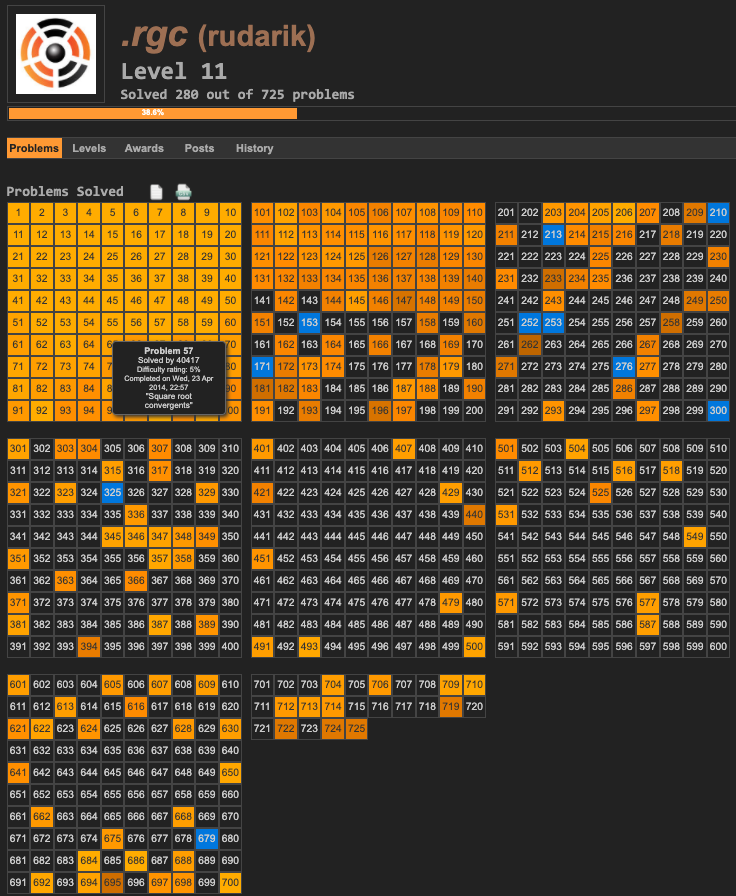
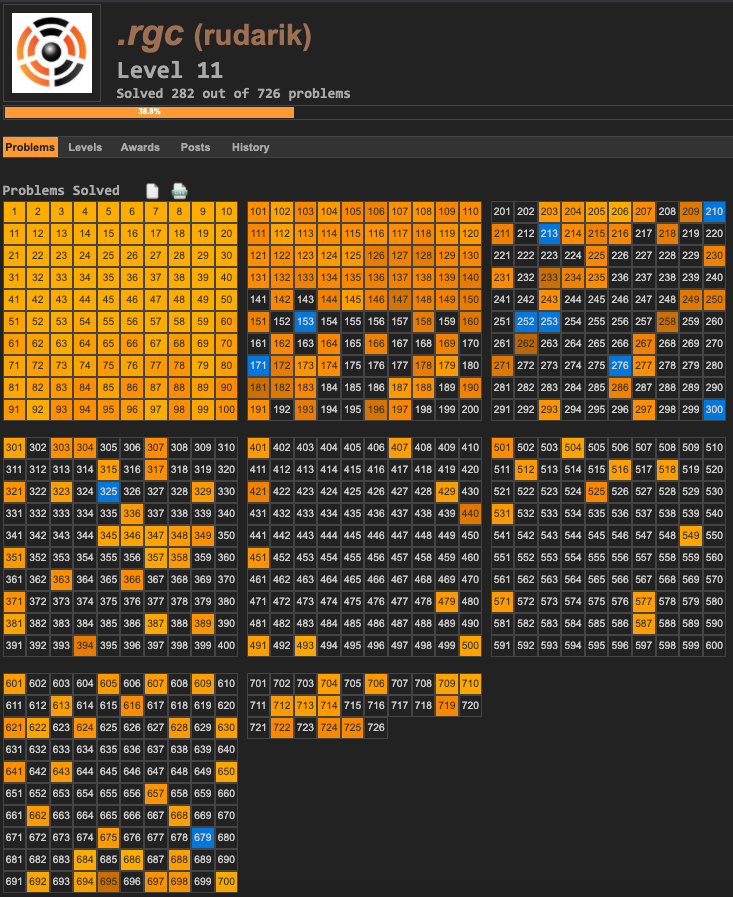
Solved 643 and 657

diff --git a/README.md b/README.md
@@ -82,6 +82,7 @@ Problem 102: "Triangle containment"
 Problem 345: "Matrix sum"
 
 * [Inclusion-exclusion Principle](https://en.wikipedia.org/wiki/Inclusion%E2%80%93exclusion_principle)
+Problem 657: "Incomplete words"
 
 * [Incomplete gamma function](https://en.wikipedia.org/wiki/Incomplete_gamma_function)
 Problem 697: "Randomly Decaying Sequence"
@@ -184,7 +185,7 @@ Problem 233: "Lattice points on a circle"
 Problem 216: "Investigating the primality of numbers of the form 2n^2-1"
 
 * [Totient Function](https://en.wikipedia.org/wiki/Euler%27s_totient_function)
-Problems 69: "Totient maximum", Problem 70: "Totient permutation", Problem 214: "Totient chains", Problem 243: "Resilience", Problem 351: "Hexagonal orchards", Problem 512: "Sums of totients of powers", Problem 516: "5-smooth totients"
+Problems 69: "Totient maximum", Problem 70: "Totient permutation", Problem 214: "Totient chains", Problem 243: "Resilience", Problem 351: "Hexagonal orchards", Problem 512: "Sums of totients of powers", Problem 516: "5-smooth totients", Problem 643: "2-Friendly"
 
 * [Trailing Zero](https://en.wikipedia.org/wiki/Trailing_zero)
 Problem 160: "Factorial trailing digits"
